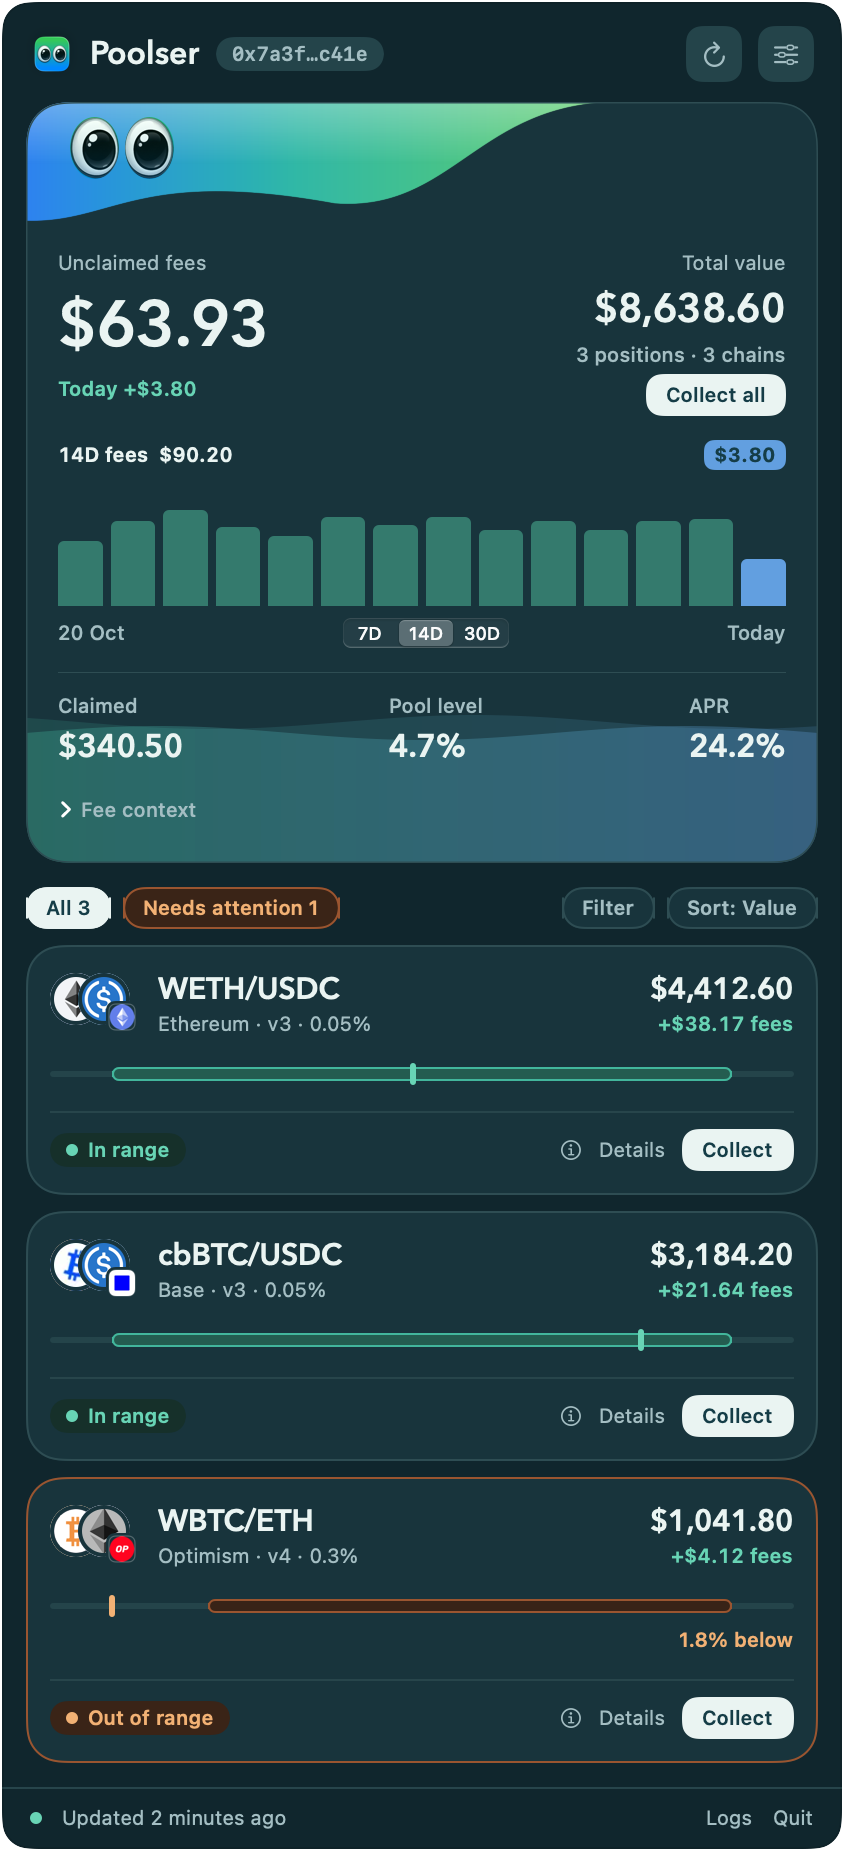
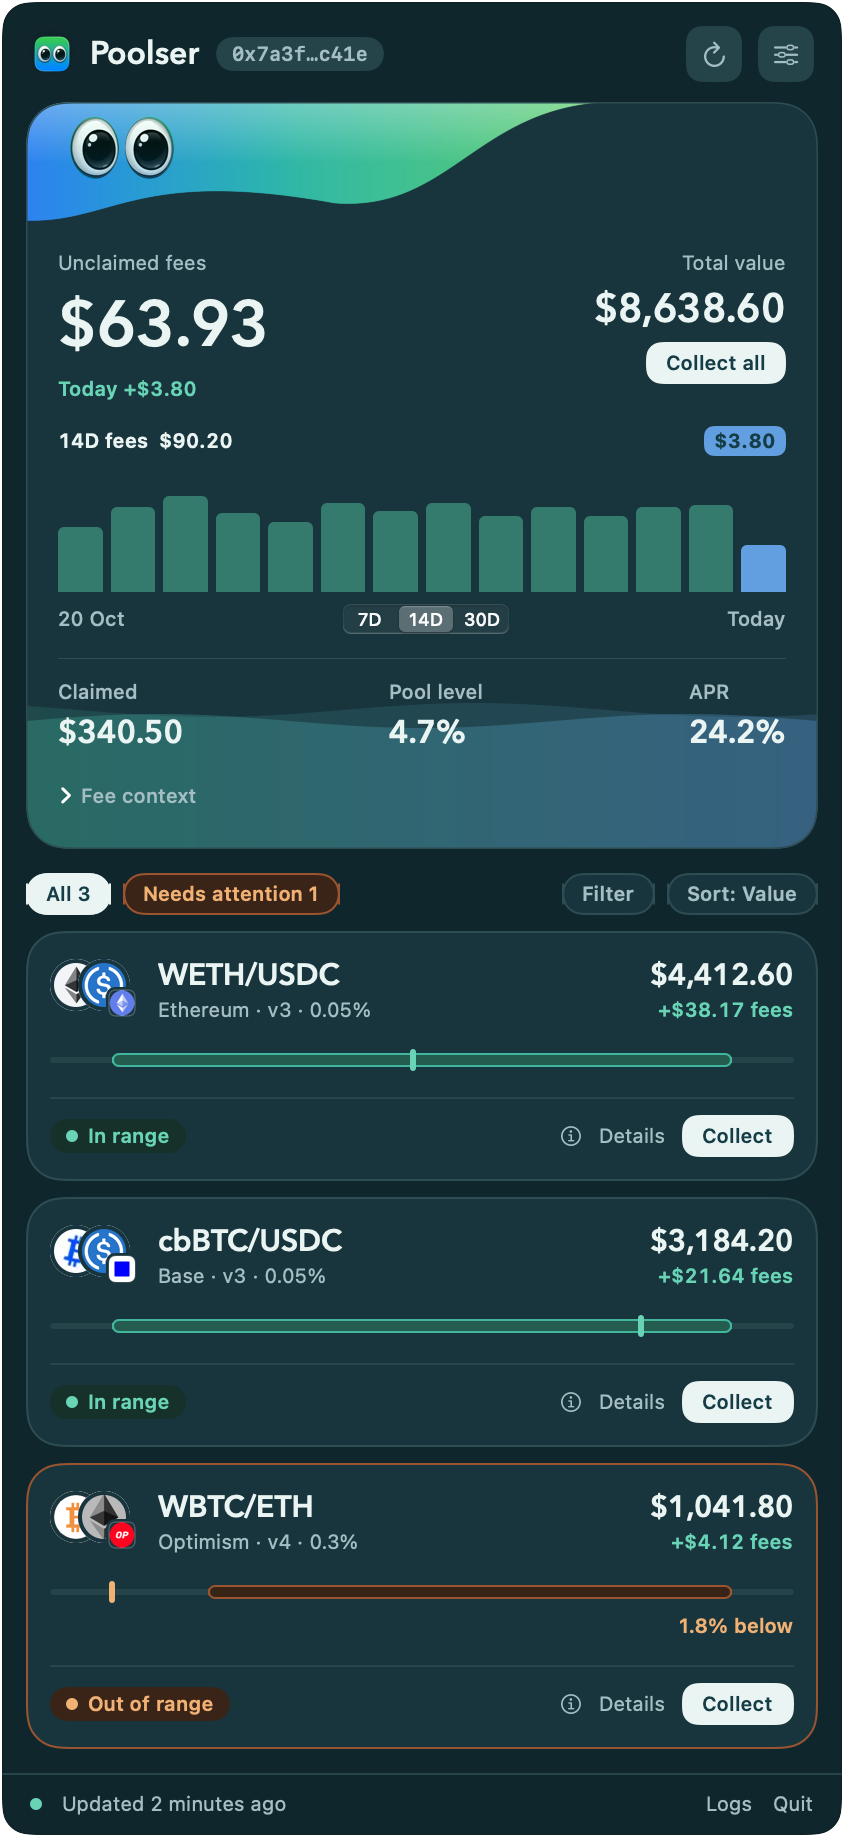
refactor: remove redundant portfolio counts from summary

diff --git a/Sources/PoolserKit/Presentation/PortfolioSummaryCard.swift b/Sources/PoolserKit/Presentation/PortfolioSummaryCard.swift
@@ -80,8 +80,6 @@ public struct PortfolioSummaryCard<Actions: View>: View {
                 .font(PoolTypography.amount(20, relativeTo: .title3))
                 .foregroundStyle(palette.primaryText)
                 .lineLimit(1).minimumScaleFactor(0.7)
-            Text("\(positions.count) positions · \(Set(positions.map(\.chainID)).count) chains")
-                .font(.caption2).foregroundStyle(palette.secondaryText)
             actions
         }
         .fixedSize(horizontal: true, vertical: false)

diff --git a/docs/BRAND.md b/docs/BRAND.md
@@ -28,7 +28,7 @@ Use an 8-point spacing rhythm, 16–20-point continuous card corners, hairline s
 
 ## Information and interaction
 
-Always show unclaimed fees, portfolio value, today's fees when available, daily bar chart, selected period, claimed fees, pool level and realized APR when known. Keep syncing and unavailable states truthful. Retain wallet navigation, filters, sorting, collect actions, errors and refresh status.
+Always show unclaimed fees, portfolio value, today's fees when available, daily bar chart, selected period, claimed fees, pool level and realized APR when known. Do not repeat position and chain counts beneath Total value; the position list provides that context. Keep syncing and unavailable states truthful. Retain wallet navigation, filters, sorting, collect actions, errors and refresh status.
 
 Position cards always show pair, chain/version/fee tier, value, fees, range status, range track and current marker. Out-of-range distance remains visible. Exact prices, holdings, position ID, claimed return and pool statistics are secondary details: reveal on hover or keyboard-accessible Details on macOS, and via Details on iOS. Opening Uniswap remains a separate explicit action. Do not hide error or collection status inside hover content.
 
